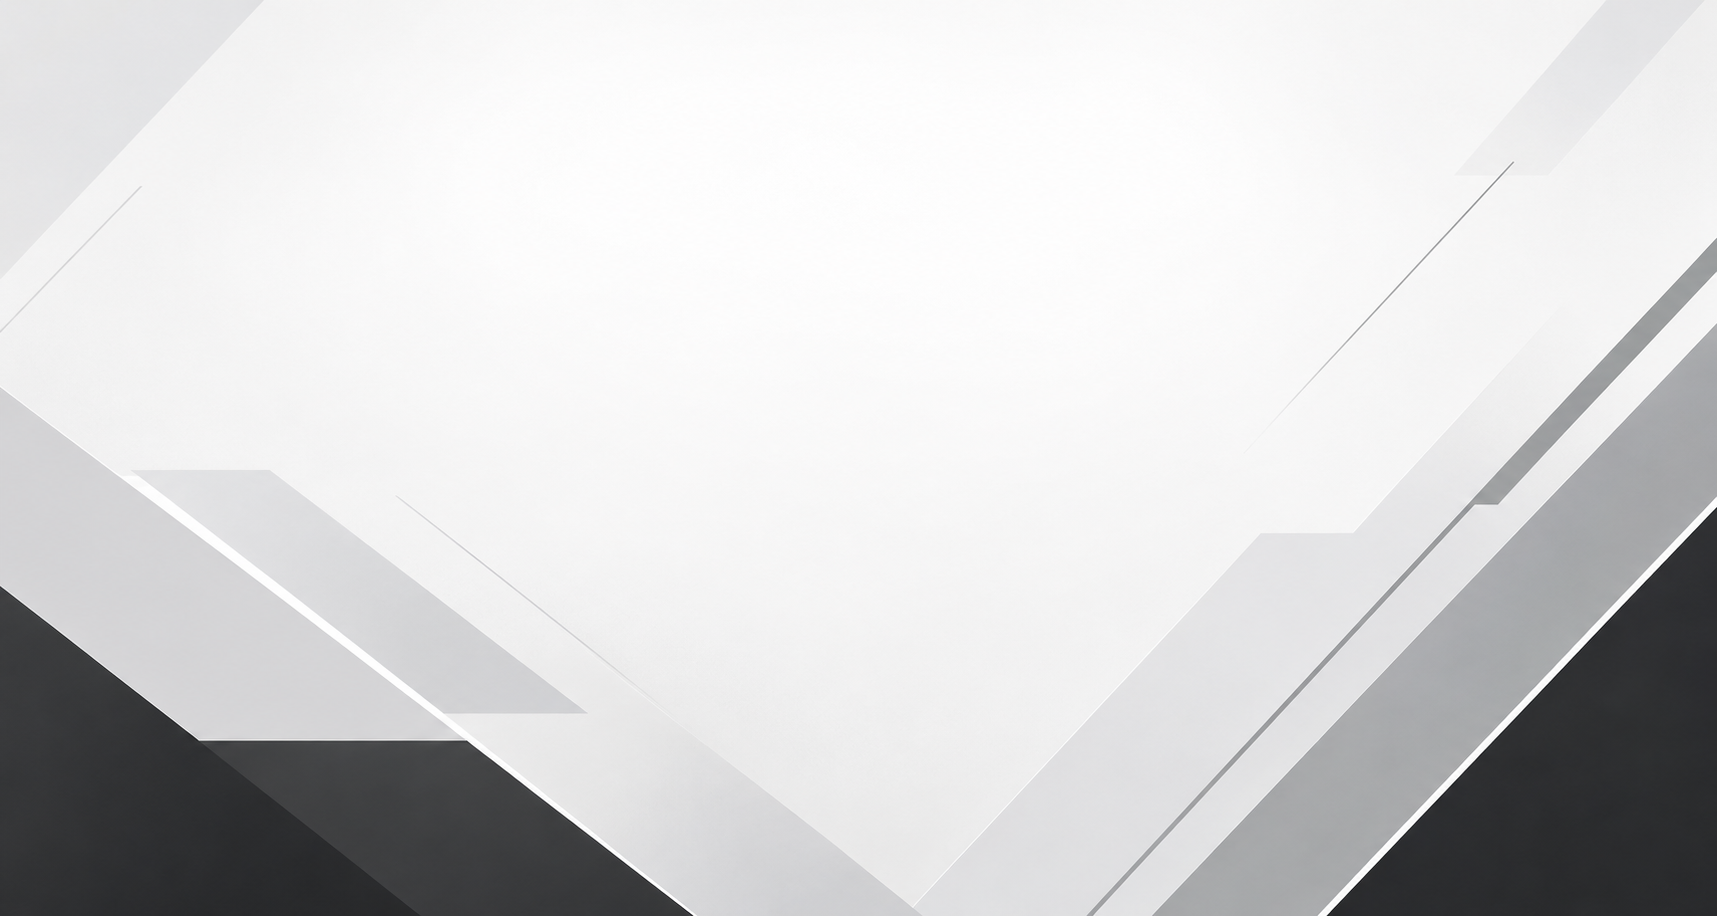
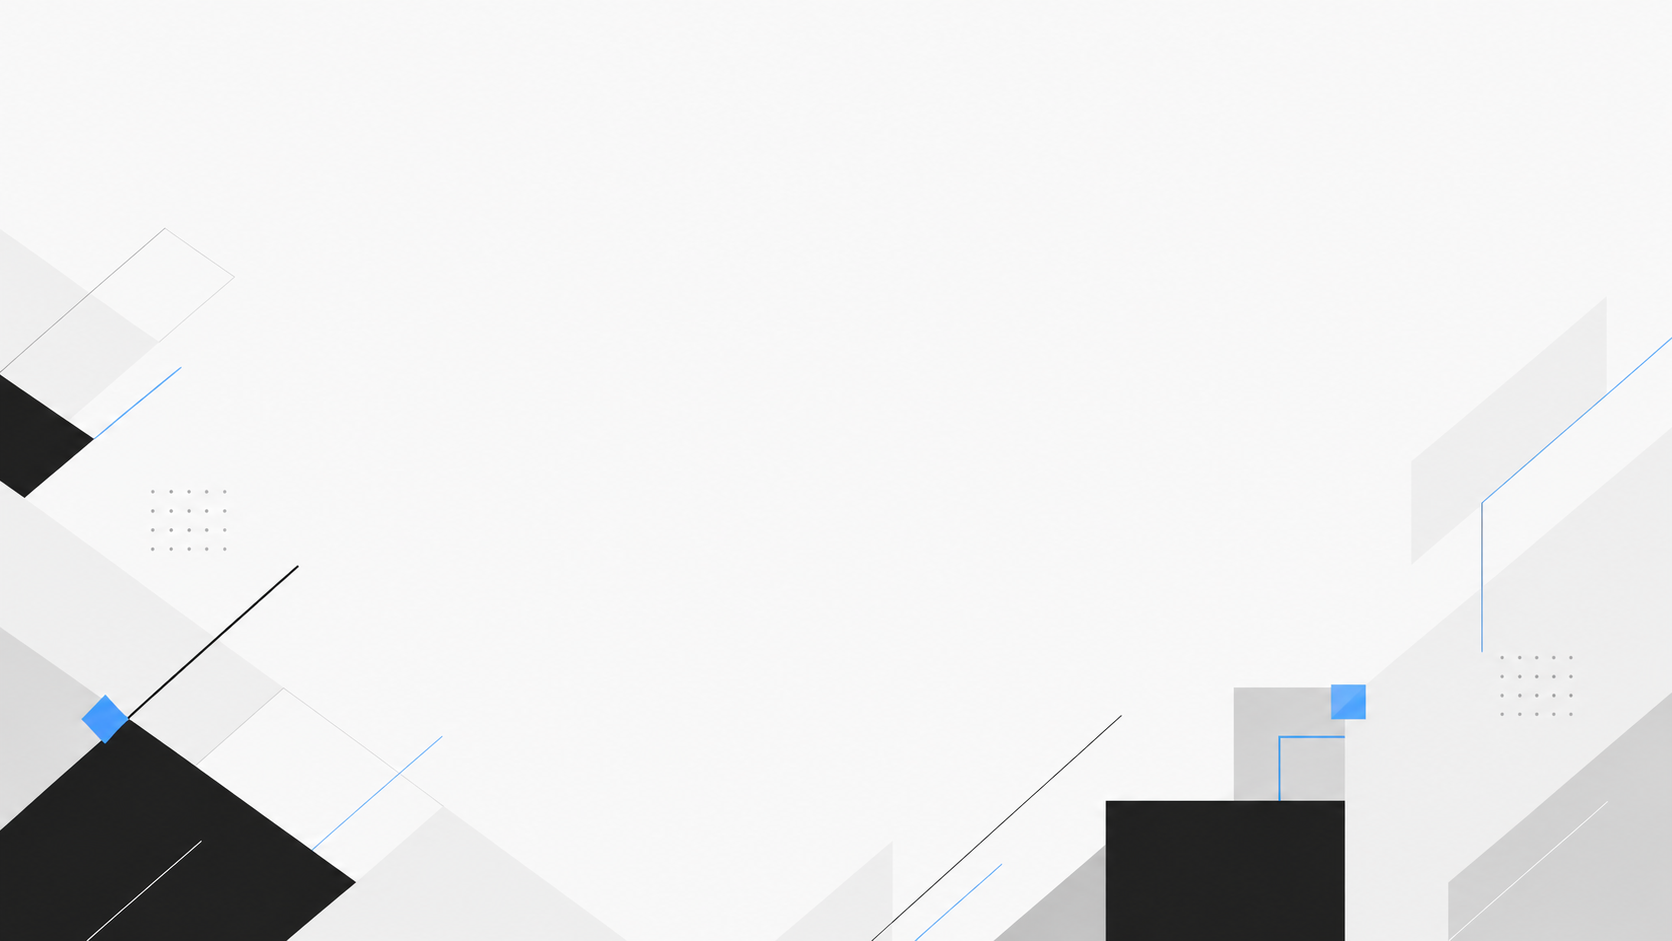
chore: fine adjusted skip page ui

Changed region(s): [[0.0, 0.2445, 1.0, 1.0]]

diff --git a/social_platform/frontend/src/pages/external/ExternalRedirectPage.tsx b/social_platform/frontend/src/pages/external/ExternalRedirectPage.tsx
@@ -5,7 +5,6 @@
  * 下游在用户确认后跳转到原始外部地址。
  */
 
-import { ArrowLeft, ExternalLink } from 'lucide-react';
 import type { ReactElement } from 'react';
 import { useNavigate, useSearchParams } from 'react-router-dom';
 import { BigLogo } from '@/shared/components/auth/BigLogo';
@@ -58,15 +57,16 @@ export default function ExternalRedirectPage(): ReactElement {
 
           <div className="flex flex-col items-center justify-center gap-3 sm:flex-row">
             {targetUrl ? (
-              <Button asChild size="lg">
+              <Button
+                asChild
+                className="w-28 rounded-md hover:bg-zinc-800 hover:text-white hover:shadow-md"
+              >
                 <a href={targetUrl} rel="noreferrer">
-                  <ExternalLink className="mr-2 h-4 w-4" aria-hidden="true" />
                   确认跳转
                 </a>
               </Button>
             ) : null}
-            <Button type="button" variant="outline" size="lg" onClick={goBack}>
-              <ArrowLeft className="mr-2 h-4 w-4" aria-hidden="true" />
+            <Button type="button" variant="outline" className="w-28 rounded-md" onClick={goBack}>
               返回
             </Button>
           </div>
